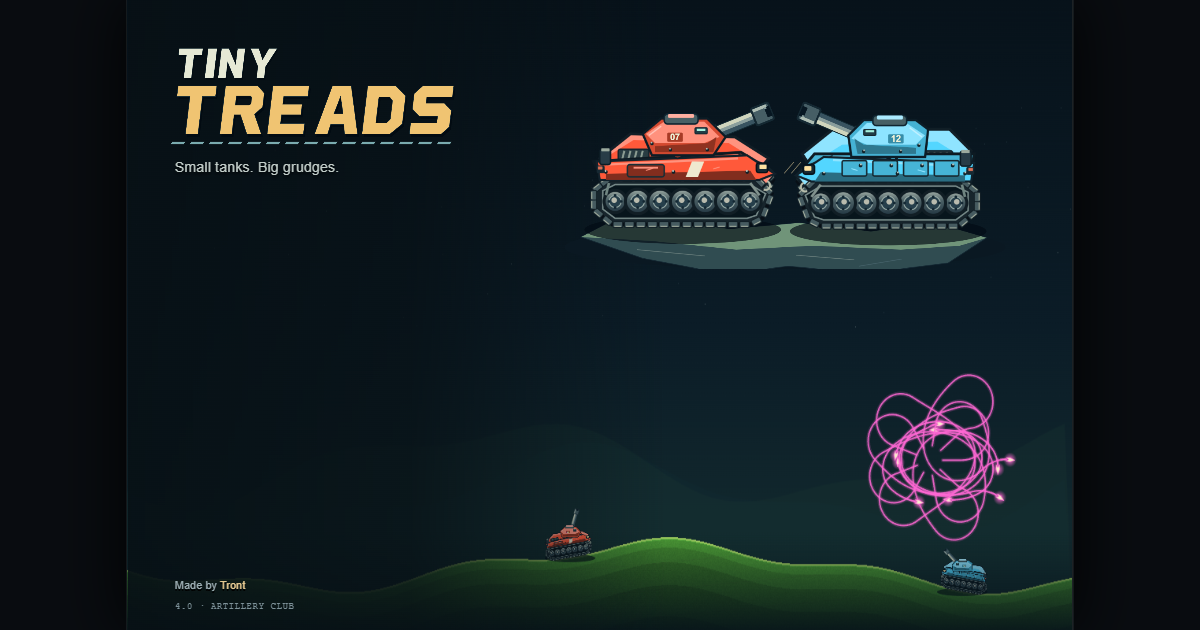
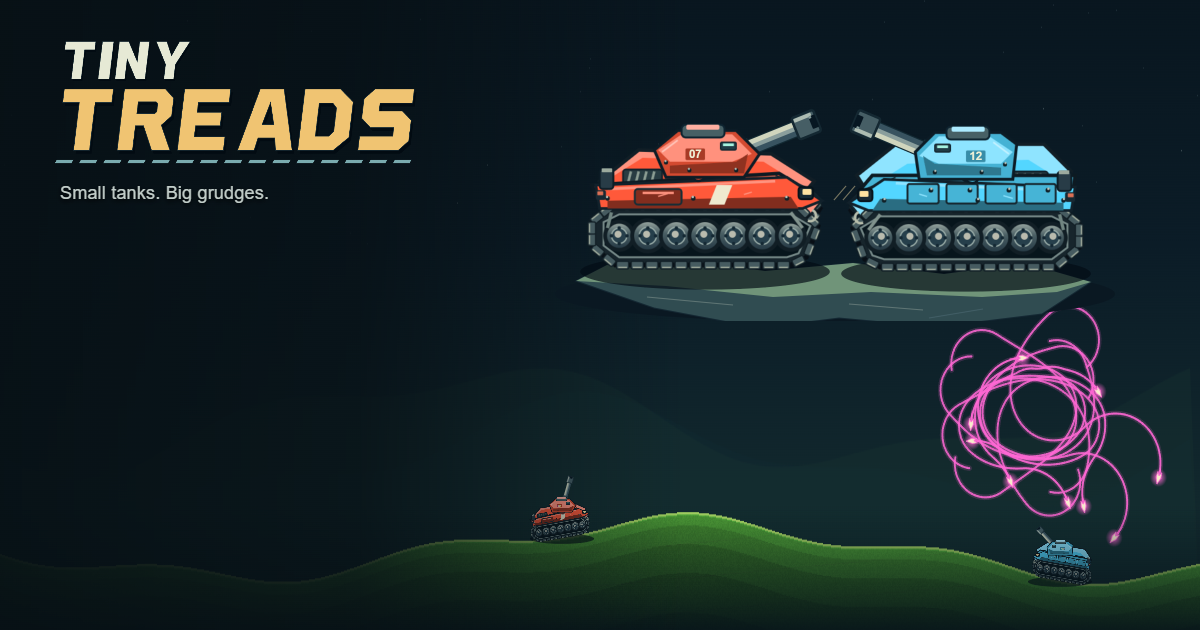
og-image v2: native stage crop, hero slid onto the attract battle

diff --git a/index.html b/index.html
@@ -12,12 +12,12 @@
 <meta property="og:title" content="Tiny Treads by Tront">
 <meta property="og:description" content="Small tanks. Big grudges. Turn-based artillery with destructible terrain and 400 wild weapons, against the CPU or online. Free in the browser.">
 <meta property="og:url" content="https://tront.xyz/tinytreads/">
-<meta property="og:image" content="https://tront.xyz/tinytreads/og-image.png?v=1">
+<meta property="og:image" content="https://tront.xyz/tinytreads/og-image.png?v=2">
 <meta property="og:image:width" content="1200"><meta property="og:image:height" content="630">
 <meta name="twitter:card" content="summary_large_image">
 <meta name="twitter:title" content="Tiny Treads by Tront">
 <meta name="twitter:description" content="Small tanks. Big grudges. Turn-based artillery with destructible terrain and 400 wild weapons, against the CPU or online. Free in the browser.">
-<meta name="twitter:image" content="https://tront.xyz/tinytreads/og-image.png?v=1">
+<meta name="twitter:image" content="https://tront.xyz/tinytreads/og-image.png?v=2">
 <style>
 :root{color-scheme:dark;--acid:#c5f454;--orange:#ffac42;--muted:#9ba59b;--red:#ff6946;--blue:#55d6ff}*{box-sizing:border-box}html,body{margin:0;width:100%;height:100%;overflow:hidden;background:#040504;font:16px/1.35 Arial,Helvetica,sans-serif;color:#eff3e8;user-select:none;-webkit-user-select:none;touch-action:none}button,input,select{font:inherit}button{cursor:pointer;color:#eef0df;touch-action:manipulation}button:focus-visible,input:focus-visible,select:focus-visible{outline:2px solid #d8ff73;outline-offset:3px}button:disabled{cursor:default;filter:saturate(.2);opacity:.48}button,input,select{ -webkit-tap-highlight-color:transparent}input,select{color:#eef3e1;background:#0b0e0a;border:1px solid #4a5044;border-radius:3px;padding:10px;user-select:text;touch-action:auto}select{cursor:pointer}button{border:1px solid #6f7463;border-radius:4px;background:linear-gradient(#3a4035,#242820 45%,#191c16 47%,#292e23);box-shadow:inset 0 1px #a4ac8660,inset 0 -2px #080a06,0 2px 2px #0008;text-shadow:0 2px #000;padding:8px 15px;font-weight:700;transition:filter .1s,border-color .1s}button:hover:not(:disabled){filter:brightness(1.24);border-color:#d6e4b9}button:active:not(:disabled){transform:translateY(1px);box-shadow:inset 0 2px 5px #000b}button.primary{color:#ebffae;border-color:#9eb64c;background:linear-gradient(#5b702a,#3b4c18 48%,#253411 50%,#384721)}button.orange{border-color:#d88c40;background:linear-gradient(#a75e21,#793b15 46%,#54230e 48%,#773611);color:#fff2c6}button.flat{box-shadow:none;background:#10140dc9;border-color:#48513b;color:#c3d0ad}button.small{font-size:14px;padding:6px 12px}a{color:#c5f454;text-decoration:none}a:hover{text-decoration:underline}[hidden]{display:none!important}#stage{width:1200px;height:800px;position:absolute;left:50%;top:50%;transform-origin:center;background:#000;box-shadow:0 0 0 1px #454c35,0 0 100px #000;overflow:hidden}#field{position:absolute;inset:0;width:1200px;height:610px;display:block;cursor:crosshair}#hud{position:absolute;top:610px;left:0;width:1200px;height:190px;background:repeating-linear-gradient(0deg,#ffffff02 0px,#ffffff02 1px,transparent 1px,transparent 3px),linear-gradient(#4b5040 0,#252b20 4px,#353b2f 8px,#24291f 40%,#141912);border-top:2px solid #8b9970;box-shadow:0 -4px 12px #0009,inset 0 0 0 3px #10140e;padding:0 14px}#statusbar{height:35px;display:flex;align-items:center;gap:10px;border-bottom:1px solid #10170d;color:#c7d1ba;font-size:14px}#status{color:var(--acid);font-weight:bold;min-width:166px}#shotNote{color:#aab899;flex:1;white-space:nowrap;overflow:hidden;text-overflow:ellipsis}#controls{height:128px;display:flex;align-items:stretch;gap:10px;padding:9px 0 6px}.instrument{position:relative;border:1px solid #0b1108;border-top-color:#78866a;border-radius:5px;background:linear-gradient(#182014,#10170c);box-shadow:inset 0 2px 8px #000a,0 1px #5d6a4c88}.label{display:block;color:#b2c39c;text-transform:uppercase;letter-spacing:2px;font-size:12px;font-weight:bold}.movebox{width:116px;padding:9px 8px;text-align:center}.movebox .label{margin-bottom:6px}.movebox button{font-size:12px;padding:7px 6px;min-width:45px}.movebox strong{display:block;color:#e3edcf;font-size:16px;margin-top:5px}.weaponbox{width:332px;padding:8px 10px}.weaponbox .label{padding-left:3px}.weapon-main{padding:0;display:flex;align-items:center;text-align:left;width:100%;border:0;box-shadow:none;background:transparent;height:56px}.weapon-main img{width:47px;height:47px;margin-right:9px;image-rendering:auto}.weapon-main span{font-size:21px;overflow:hidden;white-space:nowrap;text-overflow:ellipsis}.weapon-nav{display:flex;gap:8px}.weapon-nav button{font-size:12px;padding:4px 10px}.weapon-nav .remaining{margin-left:auto;font-size:13px;color:#afbd9c;align-self:center}.anglebox{width:202px;padding:7px 8px;display:flex;gap:7px}.anglebox canvas{width:100px;height:94px;touch-action:none;cursor:crosshair}.numcol{width:75px;text-align:center}.numcol .label{margin:2px 0 5px}.readout{background:#070b05;border:1px solid #465139;box-shadow:inset 0 1px 4px #000;color:#e7ffd2;text-shadow:0 0 9px #bafa3e33;font:700 28px/1.1 'Courier New',monospace}.numcol input{width:75px;height:38px;text-align:center;padding:3px;border-radius:2px;appearance:textfield}.numcol input::-webkit-inner-spin-button{appearance:none}.pair{display:flex;gap:4px;margin-top:5px}.pair button{flex:1;padding:4px 0;font-size:13px}.powerbox{flex:1;padding:9px 12px;min-width:209px}.powerhead{display:flex;align-items:center;justify-content:space-between}.powerhead input{width:72px;height:37px;text-align:center;padding:2px;border-radius:2px;appearance:textfield}.powerhead input::-webkit-inner-spin-button{appearance:none}input[type=range]{appearance:none;background:#090e05;box-shadow:inset 0 2px 4px #000;border:1px solid #556641;border-radius:2px;height:17px;padding:0;user-select:none;touch-action:none;cursor:ew-resize}input[type=range]::-webkit-slider-thumb{appearance:none;width:15px;height:26px;background:linear-gradient(90deg,#bbc898,#edfaca 40%,#6b7c4d);border:1px solid #d5e3b4;border-radius:2px;box-shadow:0 2px 4px #000}#powerSlider{width:100%;margin:14px 0 0;background:linear-gradient(to right,#719029 0%,#c4e358 65%,#e09d39 100%)}.ticklabels{display:flex;justify-content:space-between;font:12px 'Courier New';color:#93a180;margin-top:6px}.firebox{width:183px;display:flex;flex-direction:column;gap:5px}#fire{position:relative;flex:1;border:2px solid #d79139;border-bottom:5px solid #582c0c;background:linear-gradient(#ffce67,#f08f28 44%,#bf5315 47%,#db6d1b);box-shadow:inset 0 0 0 3px #ffffff22,0 3px 9px #0009;color:#321404;font:900 italic 42px/1 Arial Black,Arial,sans-serif;text-shadow:0 1px #ffd588,2px 3px #f7b044;letter-spacing:-1px}#fire span{display:block;font:700 12px Arial;letter-spacing:2px;margin-top:7px;text-shadow:none;color:#65320e}#fire:disabled{font-size:23px;letter-spacing:0}.firebox .label{text-align:center;font-size:11px;letter-spacing:1px}#keyline{display:flex;justify-content:space-between;align-items:center;font-size:12px;color:#9ead88;height:25px;border-top:1px solid #6c785144}#keyline b{color:#d1dabc;font-weight:normal}#rangebar{position:absolute;top:69px;left:50%;transform:translateX(-50%);display:flex;gap:5px;white-space:nowrap}#rangebar button{font-size:12px;padding:6px 10px;background:#0b0b0be6;border-color:#424b3a}#rangebar .lit{color:#e1ff96;border-color:#98bb43}.overlay{position:absolute;inset:0;background:#0009;z-index:10;display:flex;align-items:center;justify-content:center;backdrop-filter:blur(3px)}.sheet{background:linear-gradient(115deg,#2d3626,#141b10 42%,#151b11);border:1px solid #828f68;box-shadow:inset 0 0 0 4px #090f07,0 30px 80px #000e;border-radius:8px;padding:28px;position:relative}.sheet:before,.sheet:after{content:'';position:absolute;top:10px;width:5px;height:5px;border-radius:50%;background:#81896e;box-shadow:0 1px 2px #000}.sheet:before{left:10px}.sheet:after{right:10px}.sheet h1,.sheet h2{font-family:Arial Black,Arial,sans-serif;margin:0;text-shadow:0 3px #000;letter-spacing:-1px}.sheet h2{font-size:36px}.eyebrow{font-size:12px;font-weight:bold;letter-spacing:3px;color:#b4d27c;text-transform:uppercase;margin-bottom:6px}.subtle{color:#b0bca2}.row{display:flex;align-items:center;gap:12px}.row.between{justify-content:space-between}.grow{flex:1}#title{background:linear-gradient(#0002,#0000);backdrop-filter:none;align-items:flex-start;padding-top:64px;pointer-events:none}#titleContent{width:600px;text-align:center;pointer-events:auto}#logo{width:600px;height:205px;display:block}#title .tagline{font-size:18px;color:#d3deb9;margin:-1px 0 22px;text-shadow:0 2px 5px #000}.title-actions{width:354px;margin:0 auto;display:grid;gap:9px}.title-actions button{height:48px;font-size:19px;box-shadow:inset 0 1px #a4ac8660,inset 0 -2px #080a06,0 5px 10px #0008}.title-actions button:first-child{height:57px;font-size:24px}.title-actions .twocol{display:flex;gap:9px}.title-actions .twocol button{width:50%;height:42px;font-size:16px}#title .signature{margin-top:15px;color:#a1ad90;font-size:13px;text-shadow:0 2px #000}.buildtag{position:absolute;bottom:15px;left:19px;color:#a8b890;font-size:12px;letter-spacing:1px}.cornerbuttons{position:absolute;bottom:12px;right:16px;display:flex;gap:8px}.setup-sheet{width:724px}.setup-grid{display:grid;grid-template-columns:1fr 1fr;gap:19px;margin:23px 0}.setup-grid label{font-size:15px;color:#b9c8a7;display:grid;gap:7px}.setup-grid input,.setup-grid select{width:100%;height:43px}.ruleline{padding:13px 0;margin-bottom:14px;border-top:1px solid #53663a;border-bottom:1px solid #53663a;font-size:15px;color:#d2dfbe}.setup-grid .wide{grid-column:1/3}.checkrow{font-size:15px!important;display:flex!important;align-items:center;gap:12px!important}.checkrow input{width:19px!important;height:19px!important;accent-color:#b8e24b;user-select:none}.shop-sheet{width:1136px;height:737px;padding:23px}.shop-layout{display:grid;grid-template-columns:212px 1fr 212px;gap:15px;height:542px;margin-top:17px}.draft-side{background:#080e078f;border:1px solid #374630;border-radius:4px;padding:14px}.draft-side h3{margin:0 0 12px;font-size:17px}.draft-slots{display:flex;flex-direction:column;gap:6px}.draft-slot{font-size:13px;height:36px;display:flex;align-items:center;gap:6px;border-bottom:1px solid #26321e}.draft-slot img{width:25px;height:25px}.draft-slot.empty{color:#46573a}.draft-slot span{overflow:hidden;white-space:nowrap;text-overflow:ellipsis}#offer{display:grid;grid-template-columns:1fr 1fr;grid-template-rows:repeat(10,1fr);gap:5px;align-content:start}.offer{display:flex;align-items:center;padding:3px 7px;text-align:left;font-size:14px;height:48px}.offer img{width:33px;height:33px;margin-right:7px;flex-shrink:0}.offer .wpname{display:block;white-space:nowrap;overflow:hidden;text-overflow:ellipsis;max-width:198px}.offer small{display:block;font-size:10px;color:#aab991;margin-top:2px;letter-spacing:1px;text-transform:uppercase}.offer.claimed{background:#080c06;box-shadow:none;border-color:#2c3624;opacity:.4}.offer.selected{border-color:#d1ed82;box-shadow:inset 0 0 12px #92d73222}.shop-footer{margin-top:13px;display:flex;align-items:center;gap:12px;min-height:55px}#shopDescription{font-size:14px;color:#c1d0ab;flex:1}.arsenal-sheet{width:1110px;height:735px;display:flex;flex-direction:column;padding:25px}.arsenal-controls{display:flex;gap:11px;margin:18px 0 13px}.arsenal-controls input{flex:1}.arsenal-controls select{max-width:200px}.arsenal-layout{display:grid;grid-template-columns:1fr 285px;gap:18px;min-height:0;flex:1}.arsenal-list{overflow-y:auto;touch-action:pan-y;display:grid;grid-template-columns:1fr 1fr;gap:7px;align-content:start;padding:1px 8px 4px 0;scrollbar-color:#607540 #10170c;scrollbar-width:thin}.arsenal-item{display:flex;align-items:center;gap:9px;height:67px;text-align:left;padding:7px 9px;font-size:15px}.arsenal-item img{width:40px;height:40px}.arsenal-item>span{min-width:0}.arsenal-item .wpname{display:block;white-space:nowrap;overflow:hidden;text-overflow:ellipsis}.arsenal-item small{display:block;font-size:11px;color:#abbc96;margin-top:3px}.arsenal-item.selected{border-color:#c2ef64;background:linear-gradient(#3f532c,#22351a)}.arsenal-item.used{opacity:.38}.weapon-detail{border:1px solid #4f643a;border-radius:5px;background:#080f0799;padding:21px;display:flex;align-items:center;text-align:center;flex-direction:column}.weapon-detail>img{width:130px;height:130px;margin:6px 0 10px}.weapon-detail h3{font-size:24px;line-height:1.15;margin:4px 0 10px}.weapon-detail p{font-size:15px;color:#bccba9;line-height:1.5;min-height:72px;margin:10px 0 12px}.weapon-detail button{width:100%;font-size:17px;margin-top:auto}.badge{font-size:11px;letter-spacing:1px;color:#cedc9b;background:#253617;padding:5px 9px;border:1px solid #52683a;border-radius:3px;display:inline-block}.detail-meta{font-size:12px;color:#8fa176;margin:10px 0 15px}.arsenal-bottom{font-size:12px;color:#9cad85;margin-top:12px}.pause-sheet{width:518px}.pause-sheet .buttons{display:grid;gap:10px;margin-top:24px}.pause-sheet .buttons button{height:43px}.settingsrow{display:flex;align-items:center;justify-content:space-between;font-size:15px;margin:15px 0}.settingsrow input[type=range]{width:170px}.help-sheet{width:758px}.help-sheet p{color:#c1ceb1;font-size:16px}.help-grid{display:grid;grid-template-columns:1fr 1fr;gap:11px 25px;margin:23px 0}.help-grid div{padding:9px 0;border-bottom:1px solid #3d4d2d;font-size:15px}.help-grid b{color:#d9eea6;display:block;font-size:16px;margin-bottom:3px}.results-sheet{width:700px;text-align:center}.result-title{font-size:49px!important;margin:8px 0 20px!important}.scorecards{display:flex;gap:20px;margin:23px 0}.scorecard{flex:1;padding:23px;border:1px solid #617a43;background:#080c06}.scorecard strong{display:block;font:700 64px 'Courier New';color:#ecf6db}.scorecard h3{margin:0 0 10px;font-size:20px}.scorecard small{color:#b1c09b}.results-sheet .row{justify-content:center}.results-sheet .row button{font-size:17px}#perf{position:absolute;left:12px;top:87px;pointer-events:none;z-index:8;font:12px/1.55 'Courier New';white-space:pre;background:#080b06e8;border:1px solid #5c733a;color:#d7e9b0;padding:10px}#toast{position:absolute;left:50%;top:555px;transform:translateX(-50%);padding:10px 23px;color:#e9f8d2;background:#0b1007eb;border:1px solid #728753;z-index:20;border-radius:4px;font-size:15px;pointer-events:none;max-width:900px;text-align:center}#bootError{position:absolute;inset:20px;z-index:100;background:#190d07;border:2px solid #ff9e3e;white-space:pre-wrap;padding:40px;font:17px monospace;user-select:text}#portraitHint{position:fixed;top:3px;left:0;right:0;text-align:center;color:#a4b58c;font-size:11px;display:none;pointer-events:none}@media(orientation:portrait){#portraitHint{display:block}}@media(prefers-reduced-motion:reduce){button{transition:none}}
 

diff --git a/tools/polish.py b/tools/polish.py
@@ -27,12 +27,12 @@ rep('<meta name="author" content="Trent Sterling (Tront)">\n',
     '<meta property="og:title" content="Tiny Treads by Tront">\n'
     '<meta property="og:description" content="Small tanks. Big grudges. Turn-based artillery with destructible terrain and 400 wild weapons, against the CPU or online. Free in the browser.">\n'
     '<meta property="og:url" content="https://tront.xyz/tinytreads/">\n'
-    '<meta property="og:image" content="https://tront.xyz/tinytreads/og-image.png?v=1">\n'
+    '<meta property="og:image" content="https://tront.xyz/tinytreads/og-image.png?v=2">\n'
     '<meta property="og:image:width" content="1200"><meta property="og:image:height" content="630">\n'
     '<meta name="twitter:card" content="summary_large_image">\n'
     '<meta name="twitter:title" content="Tiny Treads by Tront">\n'
     '<meta name="twitter:description" content="Small tanks. Big grudges. Turn-based artillery with destructible terrain and 400 wild weapons, against the CPU or online. Free in the browser.">\n'
-    '<meta name="twitter:image" content="https://tront.xyz/tinytreads/og-image.png?v=1">\n')
+    '<meta name="twitter:image" content="https://tront.xyz/tinytreads/og-image.png?v=2">\n')
 
 # ---- em dashes out of player-facing strings (code comments untouched) ----
 rep("`<div class=\"draft-slot empty\">${String(j+1).padStart(2,'0')} &nbsp; —</div>`", "`<div class=\"draft-slot empty\">${String(j+1).padStart(2,'0')} &nbsp; ·</div>`", 2)

diff --git a/CLAUDE.md b/CLAUDE.md
@@ -18,7 +18,7 @@ Single-file turn-based artillery game (Pocket Tanks / Scorched Earth lineage): d
 
 1. New drop lands in `~/Downloads/tiny-treads-vN.html`: copy it to `versions/`, point `tools/polish.py` at it (or pass the path), run it. The script aborts if an anchor is missing; fix the anchor, never hand-merge.
 2. `node tools/verify.mjs` (14 checks: boot, title, arsenal count, quick battle, fire, field canvas, back to menu, reload, storage, console). Also accepts the live URL.
-3. `node tools/og-shot.mjs` only if the look changed (title screen at 1200x630 with buttons hidden; candidates scored by weapon-trail pixels from the attract battle). Bump `?v=N` on the og-image meta in `tools/polish.py` when the image changes.
+3. `node tools/og-shot.mjs` only if the look changed. The stage is a fixed 1200x800 box scaled to fit, so the script shoots it at native scale, hides the buttons and footer, slides the wordmark and hero tanks down 150 px (`SHIFT=`) to sit above the attract battle, crops the 1200x630 band from y=170 (`CROP_Y=`), and scores candidates by weapon-trail pixels. Version 1 at a 1200x630 viewport had side bars and an empty middle and read as badly cropped on the games card. Bump `?v=N` on the og-image meta in `tools/polish.py` when the image changes.
 4. Commit, push. Pages deploys in about a minute. Re-run `verify.mjs` against https://tront.xyz/tinytreads/.
 
 ## Public hooks
